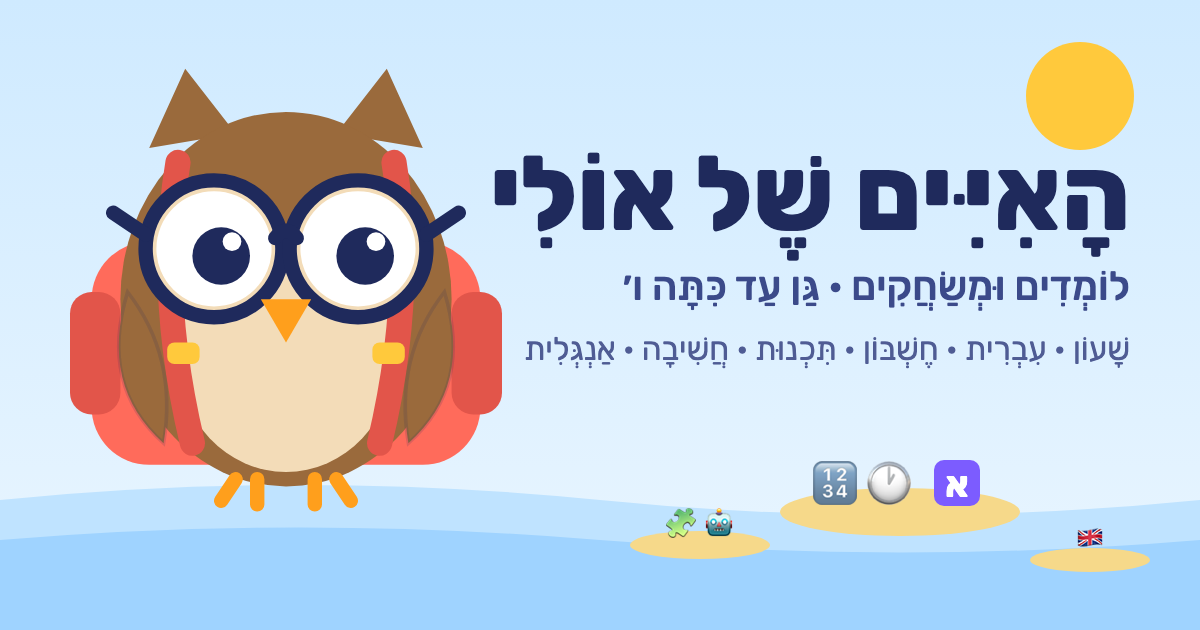
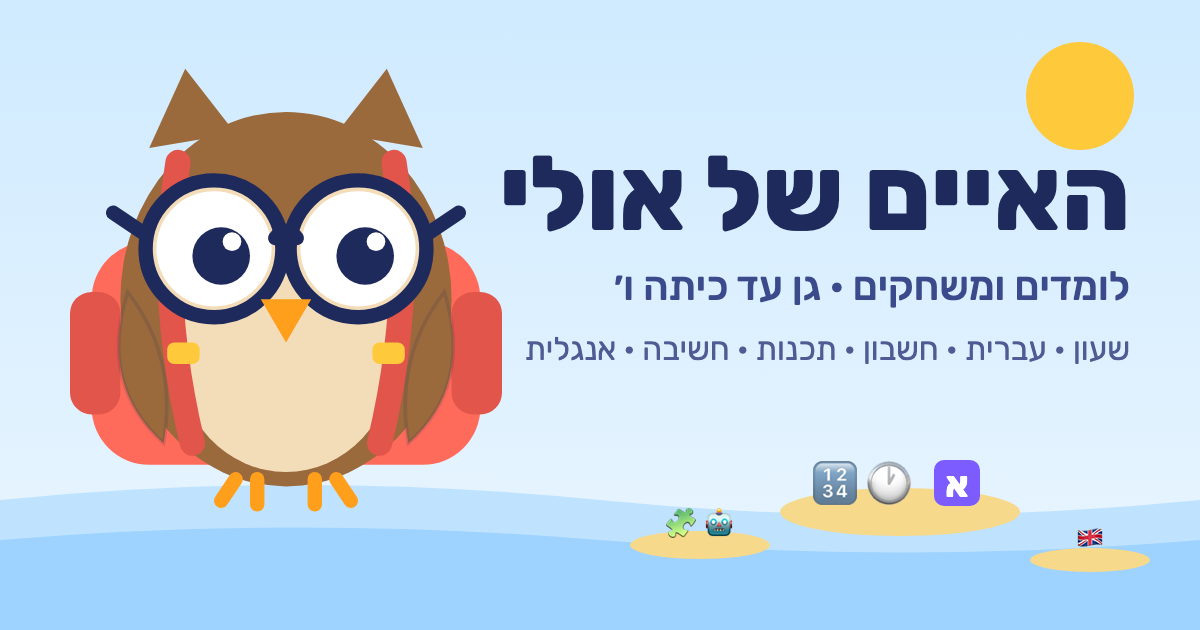
Link preview: text without nikud (read by parents; a dagesh in a yod shows as a stray dot at title size)

diff --git a/scripts/og.html b/scripts/og.html
@@ -1,5 +1,6 @@
 <!doctype html>
-<!-- Link preview image (WhatsApp, etc.): Oli with glasses and a school backpack. Render with `node scripts/make-og.mjs`. -->
+<!-- Link preview image (WhatsApp, etc.): Oli with glasses and a school backpack. Render with `node scripts/make-og.mjs`.
+     Text without nikud: parents read the preview, and a dagesh in a yod (אִיִּים) shows as a stray dot at title size. -->
 <html lang="he" dir="rtl">
 <head>
 <meta charset="utf-8" />
@@ -32,9 +33,9 @@
   <text x="1090" y="549" font-size="28" text-anchor="middle">🇬🇧</text>
 
   <!-- title (right side, RTL) -->
-  <text x="1130" y="230" font-size="104" font-weight="800" fill="#1f2a5c" text-anchor="start" direction="rtl">הָאִיִּים שֶׁל אוֹלִי</text>
-  <text x="1130" y="300" font-size="40" font-weight="500" fill="#3b4a8a" text-anchor="start" direction="rtl">לוֹמְדִים וּמְשַׂחֲקִים · גַּן עַד כִּתָּה ו׳</text>
-  <text x="1130" y="360" font-size="32" font-weight="400" fill="#4f5c94" text-anchor="start" direction="rtl">שָׁעוֹן · עִבְרִית · חֶשְׁבּוֹן · תִּכְנוּת · חֲשִׁיבָה · אַנְגְּלִית</text>
+  <text x="1130" y="230" font-size="104" font-weight="800" fill="#1f2a5c" text-anchor="start" direction="rtl">האיים של אולי</text>
+  <text x="1130" y="300" font-size="40" font-weight="500" fill="#3b4a8a" text-anchor="start" direction="rtl">לומדים ומשחקים · גן עד כיתה ו׳</text>
+  <text x="1130" y="360" font-size="32" font-weight="400" fill="#4f5c94" text-anchor="start" direction="rtl">שעון · עברית · חשבון · תכנות · חשיבה · אנגלית</text>
 
   <!-- Oli with glasses and a backpack (left side) -->
   <g transform="translate(70 40) scale(3.6)">
